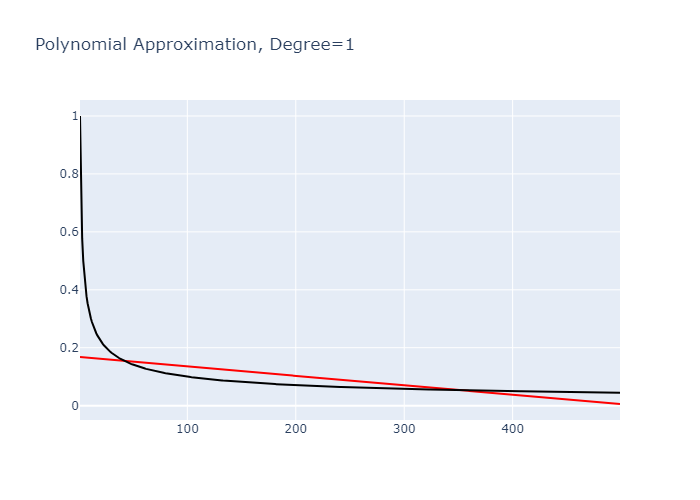
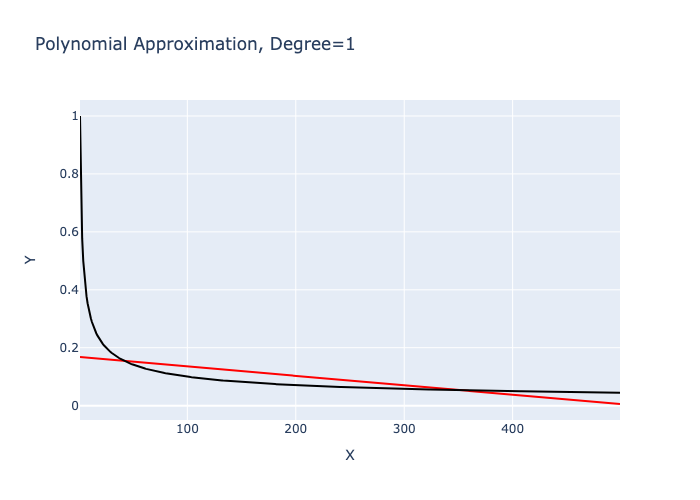
Polynomial Approximation Graphing and Theoretical MatVec Mult Performance Graphing

diff --git a/plot_generation.py b/plot_generation.py
@@ -516,6 +516,39 @@ def plot_matmul_performance():
     fig_file_name = "figures/VectorRowsPerformance.png"
     fig.write_image(fig_file_name)
 
+def plot_matmul_performance_theoretical():
+    ns = [i for i in range(600)]
+    gamma = [2**i for i in range(9,15)]*100
+    time = []
+    
+    for gam in gamma:
+        temp = []
+        for n in ns:
+            temp.append(2*n*gam + n*gam)
+        time.append(temp)
+    
+    print(len(ns),len(gamma),len(time))
+    data_dictTime = {"n":ns,"γ":gamma,"Time (ms)":time}
+
+    dfTime = pandas.DataFrame(data_dictTime)
+    
+    
+    #print(data_dictTime["Time (ms)"])
+    figTime = px.scatter_3d(dfTime,x="n",y="γ",z="Time (ms)")#,color=" ")
+    
+    #figTime = go.Figure(go.Surface(x = ns, y = gamma, z = time))
+
+    #this line from https://plotly.com/python/3d-surface-plots/
+    """figTime.update_layout(
+        scene = {
+            "xaxis": {"nticks": 20, "label":"dog"},
+            "zaxis": {"nticks": 4},
+            #'camera_eye': {"x": 0.5, "y": -1, "z": -0.5},
+            "aspectratio": {"x": 1, "y": 1, "z": 0.5}
+        })"""
+    
+    figTime.write_image("figures/TheoreticalTime_Naive.png")
+
 if __name__ == "__main__":
     #plot_dataset()
     #plot_loss()
@@ -524,4 +557,5 @@ if __name__ == "__main__":
     #plot_results()
     #plot_poly_results()
     #plot_errors()
-    plot_matmul_performance();
+    #plot_matmul_performance();
+    plot_matmul_performance_theoretical();

diff --git a/polynomial_approximation.py b/polynomial_approximation.py
@@ -116,12 +116,17 @@ def poly_approximation():
             )
         )
         
+        fig.update_layout(
+            xaxis_title="X",
+            yaxis_title="Y"
+        )
+        
         fig_file_name = "figures/polynomial_approximations/approx_degree=" + str(degrees[i]) + ".png"
         fig.write_image(fig_file_name)
         
-        data_dict = {"Error":abs(myfun(x, *popt)-y), "X":x}
+        data_dict = {"Relative Error":abs(myfun(x, *popt)-y)/y, "X":x}
         df = pandas.DataFrame(data_dict)
-        fig = px.line(df,x="X",y="Error")
+        fig = px.line(df,x="X",y="Relative Error")
         
         fig_file_name = "figures/polynomial_approximations/approx_error_degree=" + str(degrees[i]) + ".png"
         fig.write_image(fig_file_name)
